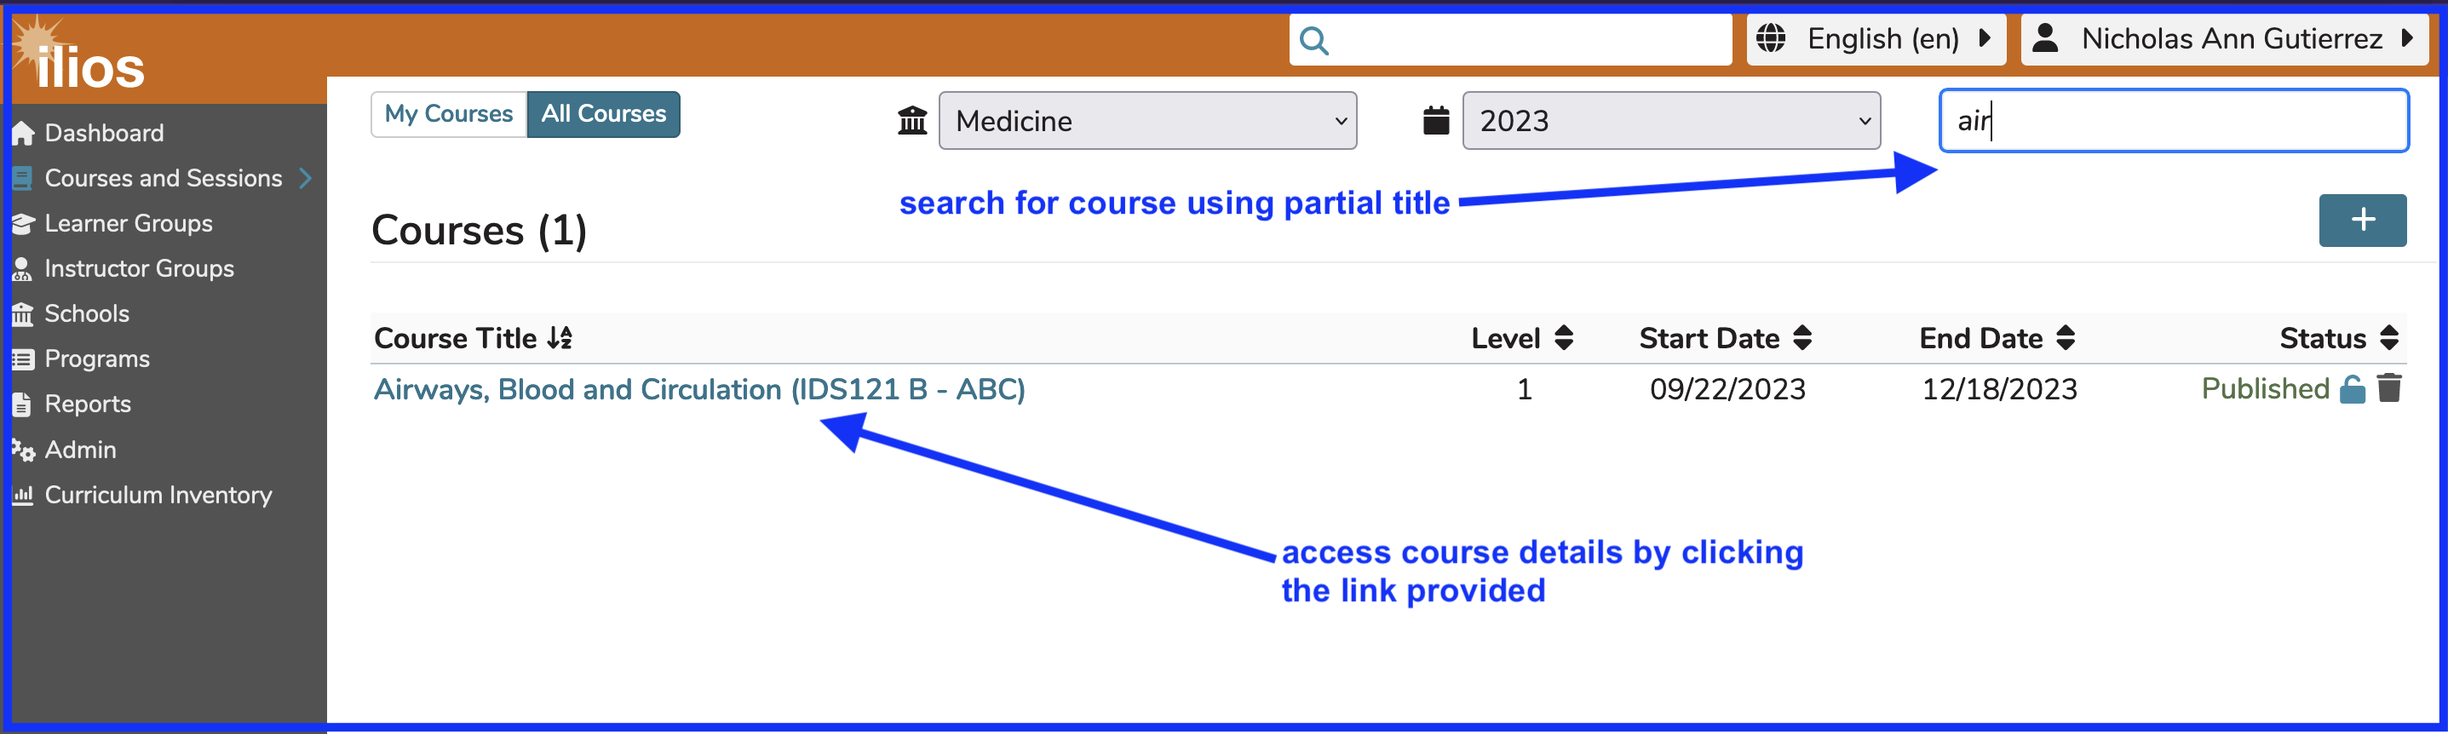
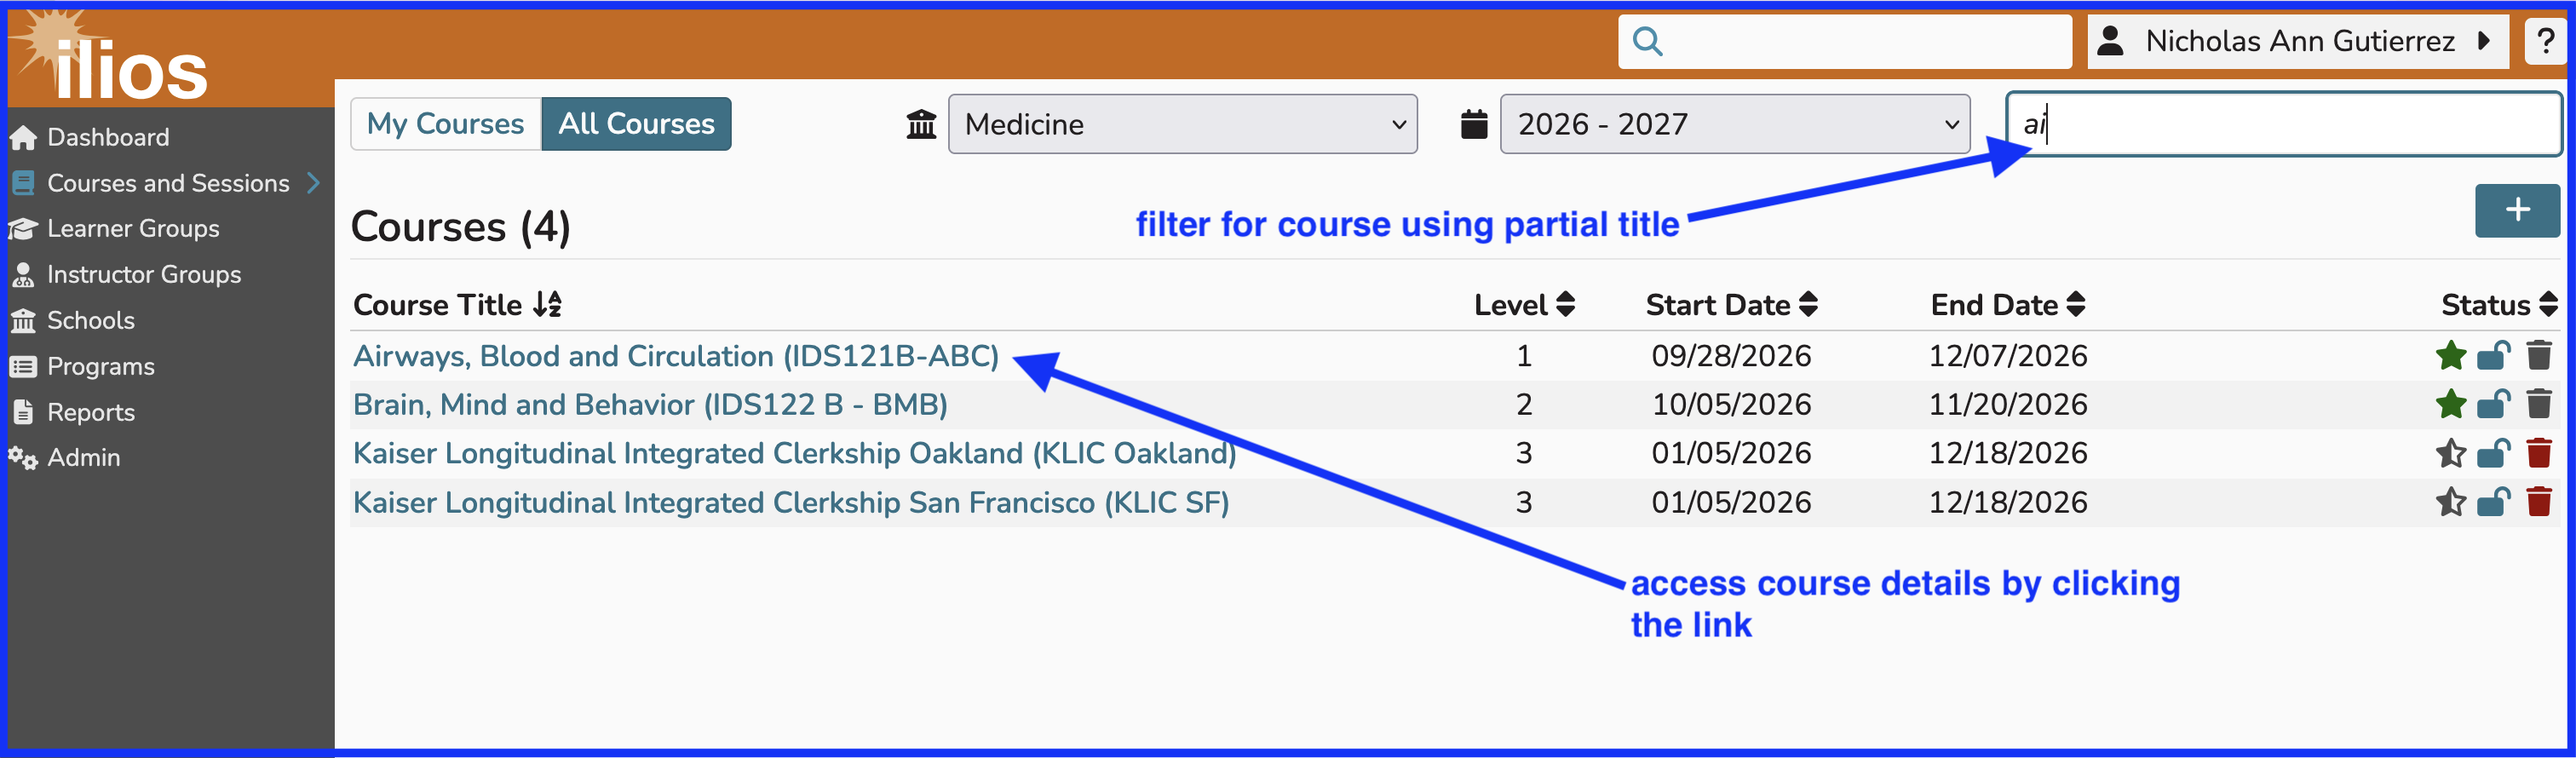
image replaced - caption updated

diff --git a/courses-and-sessions/sessions/edit-session-objective.md b/courses-and-sessions/sessions/edit-session-objective.md
@@ -1,10 +1,10 @@
 # Edit Objective
 
-Editing an Objective is easily accomplished following the the steps listed below.
+Editing an objective is easily accomplished following the the steps listed below.
 
 ## Select Course
 
-![click on the course title link to open it](../../images/edit_session_objective/select_course.png)
+![select course](../../images/edit_session_objective/select_course.png)
 
 ## Select Session
 
